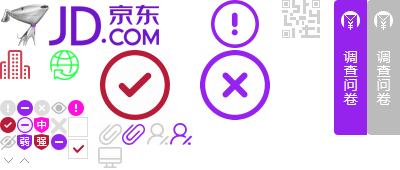
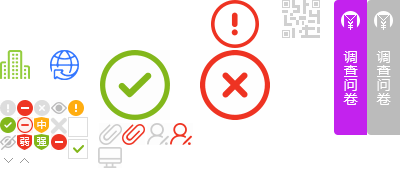
改用Mybatis框架

diff --git a/Herewegou2.5/WebRoot/jsp/user/css/register.css b/Herewegou2.5/WebRoot/jsp/user/css/register.css
@@ -67,7 +67,7 @@ form label.inputName {
 }
 
 form input {
-	width: 120px;
+	width: 200px;
 	padding: 15px 40px;
 	padding-right: 0px;
 	font-size: 14px;
@@ -93,7 +93,7 @@ label.inputFont {
 #usernameLabel,
 #passwordLabel,
 #passwordSureLabel {
-	width: 190px;
+	width: 200px;
 }
 
 form div.notTishi {
@@ -237,7 +237,15 @@ div#changeToPhone a {
 }
 
 #submitImedietaly {
-	background-color: #EE2222;
+	background: #7a45e5;
+    background: -moz-linear-gradient(left,#7a45e5 20%,#b23cef 80%);
+    background: -webkit-gradient(linear,left top,right top,color-stop(20%,#7a45e5),color-stop(80%,#b23cef));
+    background: -webkit-linear-gradient(left,#7a45e5 20%,#b23cef 80%);
+    background: -o-linear-gradient(left,#7a45e5 20%,#b23cef 80%);
+    background: -ms-linear-gradient(left,#7a45e5 20%,#b23cef 80%);
+    background: linear-gradient(to right,#7a45e5 20%,#b23cef 80%);
+    filter: progid:DXImageTransform.Microsoft.gradient(startColorstr='#7a45e5', endColorstr='#b23cef', GradientType=1);
+	
 	text-align: center;
 	line-height: 50px;
 	color: #fff;

diff --git a/Herewegou2.5/WebRoot/jsp/user/css/top.css b/Herewegou2.5/WebRoot/jsp/user/css/top.css
@@ -795,8 +795,6 @@ a.selected {
 #categorys .dd {
 	display: none;
 	height: 466px;
-	background: #b23cef;
-	    background-color: #C81623;
     background: #7a45e5;
     background: -moz-linear-gradient(left,#7a45e5 20%,#b23cef 80%);
     background: -webkit-gradient(linear,left top,right top,color-stop(20%,#7a45e5),color-stop(80%,#b23cef));
@@ -991,7 +989,8 @@ a.selected {
 	border: 1px solid #b23cef;
 	position: relative;
 	height: 82px;
-	width: 208px
+	width: 208px;
+	overflow: hidden;
 }
 
 #categorys .subitems dl {

diff --git a/Herewegou2.5/WebRoot/css/style.css b/Herewegou2.5/WebRoot/css/style.css
@@ -14,8 +14,13 @@ li {
 	list-style: none;
 }
 
-label, select {
+label {
 	padding-top: 5px;
+	font-family: Microsoft JhengHei;
+	font-size:16px;
+}
+
+select {
 	font-family: Microsoft JhengHei;
 	font-size:16px;
 }

diff --git a/Herewegou2.5/src/com/servlet/UserServlet.java b/Herewegou2.5/src/com/servlet/UserServlet.java
@@ -318,10 +318,10 @@ public class UserServlet extends HttpServlet {
 			String to = user.getMail();
 			String subject = "请激活账户";
 
-			String content = "<!DOCTYPE html><html><head><meta charset='utf-8' /><title>京东(JD.COM)-综合网购首选-正品低价、品质保障、配送及时、轻松购物</title><link rel='shortcut icon' href='jd-title.ico' type='image/x-icon' /><link rel='stylesheet' type='text/css' href='css/top.css' /></head><body><style>	.qmbox a {			color: #0095dd;			text-decoration: none !important;		}	</style>	<div itemscope='itemscope' itemtype='https://schema.org/EmailMessage'>		<div itemprop='potentialAction' itemscope='itemscope'			itemtype='https://schema.org/ViewAction'></div>	</div>	<center>		<table align='center' border='0' cellpadding='0' cellspacing='0'			height='100%' width='100%' id='bodyTable'			style='background-color:#F2F2F2;width:100% !important;padding:0;margin:0;height:100% !important;border-collapse:collapse !important;mso-table-rspace:0pt;mso-table-lspace:0pt;-ms-text-size-adjust:100%;-webkit-text-size-adjust:100%;'>			<tbody>				<tr>					<td align='center' valign='top' id='bodyCell'						style='width:100% !important;padding:50px;margin:0;height:100% !important;mso-table-rspace:0pt;mso-table-lspace:0pt;-ms-text-size-adjust:100%;-webkit-text-size-adjust:100%;'>						<table border='0' cellpadding='0' cellspacing='0'							id='templateContainer'							style='border:1px solid #DDDDDD;border-bottom-color:#CCCCCC;max-width:500px !important;border-collapse:collapse !important;mso-table-rspace:0pt;mso-table-lspace:0pt;-ms-text-size-adjust:100%;-webkit-text-size-adjust:100%;'>							<tbody>								<tr>									<td align='center' valign='top'										style='mso-table-rspace:0pt;mso-table-lspace:0pt;-ms-text-size-adjust:100%;-webkit-text-size-adjust:100%;'>										<table border='0' cellpadding='0' cellspacing='0' width='100%'											id='templateBody'											style='border-bottom:1px solid #CCCCCC;border-top:1px solid #FFFFFF;background-color:#FFFFFF;border-collapse:collapse !important;mso-table-rspace:0pt;mso-table-lspace:0pt;-ms-text-size-adjust:100%;-webkit-text-size-adjust:100%;'>											<tbody>												<tr>													<td valign='top' class='bodyContent' mc:edit='body_content'														style='text-align:center;padding-left:20px;padding-bottom:30px;padding-right:20px;padding-top:30px;line-height:150%;font-size:15px;font-family:Microsoft YaHei;color:#424F59;mso-table-rspace:0pt;mso-table-lspace:0pt;-ms-text-size-adjust:100%;-webkit-text-size-adjust:100%;'>														<h1															style='text-align:center;margin-left:0;margin-bottom:10px;margin-right:0;margin-top:0;letter-spacing:normal;line-height:100%;font-weight:normal;font-style:normal;font-size:26px;font-family:Micorsoft jHeng Hei;display:block;color:#424F59 !important;'>激活账号</h1>														<br>"
+			String content = "<!DOCTYPE html><html><head><meta charset='utf-8' /><title>HWG(HWG.COM)-综合网购首选-正品低价、品质保障、配送及时、轻松购物</title><link rel='shortcut icon' href='jd-title.ico' type='image/x-icon' /><link rel='stylesheet' type='text/css' href='css/top.css' /></head><body><style>	.qmbox a {			color: #0095dd;			text-decoration: none !important;		}	</style>	<div itemscope='itemscope' itemtype='https://schema.org/EmailMessage'>		<div itemprop='potentialAction' itemscope='itemscope'			itemtype='https://schema.org/ViewAction'></div>	</div>	<center>		<table align='center' border='0' cellpadding='0' cellspacing='0'			height='100%' width='100%' id='bodyTable'			style='background-color:#F2F2F2;width:100% !important;padding:0;margin:0;height:100% !important;border-collapse:collapse !important;mso-table-rspace:0pt;mso-table-lspace:0pt;-ms-text-size-adjust:100%;-webkit-text-size-adjust:100%;'>			<tbody>				<tr>					<td align='center' valign='top' id='bodyCell'						style='width:100% !important;padding:50px;margin:0;height:100% !important;mso-table-rspace:0pt;mso-table-lspace:0pt;-ms-text-size-adjust:100%;-webkit-text-size-adjust:100%;'>						<table border='0' cellpadding='0' cellspacing='0'							id='templateContainer'							style='border:1px solid #DDDDDD;border-bottom-color:#CCCCCC;max-width:500px !important;border-collapse:collapse !important;mso-table-rspace:0pt;mso-table-lspace:0pt;-ms-text-size-adjust:100%;-webkit-text-size-adjust:100%;'>							<tbody>								<tr>									<td align='center' valign='top'										style='mso-table-rspace:0pt;mso-table-lspace:0pt;-ms-text-size-adjust:100%;-webkit-text-size-adjust:100%;'>										<table border='0' cellpadding='0' cellspacing='0' width='100%'											id='templateBody'											style='border-bottom:1px solid #CCCCCC;border-top:1px solid #FFFFFF;background-color:#FFFFFF;border-collapse:collapse !important;mso-table-rspace:0pt;mso-table-lspace:0pt;-ms-text-size-adjust:100%;-webkit-text-size-adjust:100%;'>											<tbody>												<tr>													<td valign='top' class='bodyContent' mc:edit='body_content'														style='text-align:center;padding-left:20px;padding-bottom:30px;padding-right:20px;padding-top:30px;line-height:150%;font-size:15px;font-family:Microsoft YaHei;color:#424F59;mso-table-rspace:0pt;mso-table-lspace:0pt;-ms-text-size-adjust:100%;-webkit-text-size-adjust:100%;'>														<h1															style='text-align:center;margin-left:0;margin-bottom:10px;margin-right:0;margin-top:0;letter-spacing:normal;line-height:100%;font-weight:normal;font-style:normal;font-size:26px;font-family:Micorsoft jHeng Hei;display:block;color:#424F59 !important;'>激活账号</h1>														<br>"
 					+ clientUser.getNickname()
 					+ "，您好 "
-					+ "</a>,<br>只需再花几秒钟就可以验证您的 JD商城 账号了。													</td>												</tr>												<tr width='100%'>													<td align='center' valign='top'														style='mso-table-rspace:0pt;mso-table-lspace:0pt;-ms-text-size-adjust:100%;-webkit-text-size-adjust:100%;'>														<table border='0' cellpadding='0' cellspacing='0'															width='100%'															style='border-collapse:collapse !important;mso-table-rspace:0pt;mso-table-lspace:0pt;-ms-text-size-adjust:100%;-webkit-text-size-adjust:100%;'>															<tbody>																<tr height='47'>																	<td align='center' valign='top'																		style='mso-table-rspace:0pt;mso-table-lspace:0pt;-ms-text-size-adjust:100%;-webkit-text-size-adjust:100%;'>																		<table border='0' cellpadding='0' cellspacing='0'																			width='65%' class='flexibleContainer'																			style='border-collapse:collapse !important;mso-table-rspace:0pt;mso-table-lspace:0pt;-ms-text-size-adjust:100%;-webkit-text-size-adjust:100%;'>																			<tbody>																				<tr>																					<td align='center' valign='top'																						class='flexibleContainerCell bottomShim'																						style='mso-table-rspace:0pt;mso-table-lspace:0pt;-ms-text-size-adjust:100%;-webkit-text-size-adjust:100%;'>																						<table border='0' cellpadding='0' cellspacing='0'																							width='280' class='emailButton'																							style='border-radius:4px;background-color:#b61d1d;width:100% !important;border-collapse:separate;mso-table-rspace:0pt;mso-table-lspace:0pt;-ms-text-size-adjust:100%;-webkit-text-size-adjust:100%;'>																							<tbody>																								<tr>																									<td align='center' valign='middle'																										class='buttonContent'																										style='text-align:center;line-height:100%;font-weight:normal;font-size:20px;font-family:Microsoft YaHei;color:#FFFFFF;mso-table-rspace:0pt;mso-table-lspace:0pt;-ms-text-size-adjust:100%;-webkit-text-size-adjust:100%;'>																										<a href='http://localhost:8080/JD2.4/jsp/user/UserServlet?action=activation&userid="+clientUser.getUserId()+" ' style='text-decoration:none;font-size:20px;font-family:Microsoft YaHei;display:block;color:#FFFFFF;padding:15px !important;-ms-text-size-adjust:100%;-webkit-text-size-adjust:100%;'target='_blank'>激&nbsp;&nbsp;&nbsp;&nbsp;活</a>																									</td>																								</tr>																							</tbody>																						</table>																					</td>																				</tr>																			</tbody>																		</table>																	</td>																</tr>															</tbody>														</table>													</td>												</tr>												<tr width='100%'>													<td align='center' valign='top'														style='mso-table-rspace:0pt;mso-table-lspace:0pt;-ms-text-size-adjust:100%;-webkit-text-size-adjust:100%;'>														<table border='0' cellpadding='0' cellspacing='0'															width='70%'															style='border-collapse:collapse !important;mso-table-rspace:0pt;mso-table-lspace:0pt;-ms-text-size-adjust:100%;-webkit-text-size-adjust:100%;'>															<tbody>																<tr>																	<td valign='top' class='bodyContent'																		mc:edit='body_content'																		style='text-align:center;padding-left:20px;padding-bottom:30px;padding-right:20px;padding-top:30px;font-family:Microsoft YaHei;mso-table-rspace:0pt;mso-table-lspace:0pt;-ms-text-size-adjust:100%;-webkit-text-size-adjust:100%;color:#8A9BA8;line-height:13px;font-size:11px;'>这是一封自动发送的邮件；如果您并未要求但收到这封信件，您不需要进行任何操作。要了解更多信息，请访问<a href='https://support.jd.com'																		target='_blank'>JD 技术支持</a>																	</td>																</tr>															</tbody>														</table>													</td>												</tr>											</tbody>										</table>									</td>								</tr>							</tbody>						</table>					</td>				</tr>			</tbody>		</table>	</center>	<style type='text/css'>		.qmbox style,.qmbox script,.qmbox head,.qmbox link,.qmbox meta {			display: none !important;		}	</style></body></html>";
+					+ "</a>,<br>只需再花几秒钟就可以验证您的 HWG商城 账号了。													</td>												</tr>												<tr width='100%'>													<td align='center' valign='top'														style='mso-table-rspace:0pt;mso-table-lspace:0pt;-ms-text-size-adjust:100%;-webkit-text-size-adjust:100%;'>														<table border='0' cellpadding='0' cellspacing='0'															width='100%'															style='border-collapse:collapse !important;mso-table-rspace:0pt;mso-table-lspace:0pt;-ms-text-size-adjust:100%;-webkit-text-size-adjust:100%;'>															<tbody>																<tr height='47'>																	<td align='center' valign='top'																		style='mso-table-rspace:0pt;mso-table-lspace:0pt;-ms-text-size-adjust:100%;-webkit-text-size-adjust:100%;'>																		<table border='0' cellpadding='0' cellspacing='0'																			width='65%' class='flexibleContainer'																			style='border-collapse:collapse !important;mso-table-rspace:0pt;mso-table-lspace:0pt;-ms-text-size-adjust:100%;-webkit-text-size-adjust:100%;'>																			<tbody>																				<tr>																					<td align='center' valign='top'																						class='flexibleContainerCell bottomShim'																						style='mso-table-rspace:0pt;mso-table-lspace:0pt;-ms-text-size-adjust:100%;-webkit-text-size-adjust:100%;'>																						<table border='0' cellpadding='0' cellspacing='0'																							width='280' class='emailButton'																							style='border-radius:4px;background-color:#b61d1d;width:100% !important;border-collapse:separate;mso-table-rspace:0pt;mso-table-lspace:0pt;-ms-text-size-adjust:100%;-webkit-text-size-adjust:100%;'>																							<tbody>																								<tr>																									<td align='center' valign='middle'																										class='buttonContent'																										style='text-align:center;line-height:100%;font-weight:normal;font-size:20px;font-family:Microsoft YaHei;color:#FFFFFF;mso-table-rspace:0pt;mso-table-lspace:0pt;-ms-text-size-adjust:100%;-webkit-text-size-adjust:100%;'>																										<a href='http://localhost:8080/HereWeGou2.5/jsp/user/UserServlet?action=activation&userid="+clientUser.getUserId()+" ' style='text-decoration:none;font-size:20px;font-family:Microsoft YaHei;display:block;color:#FFFFFF;padding:15px !important;-ms-text-size-adjust:100%;-webkit-text-size-adjust:100%;'target='_blank'>激&nbsp;&nbsp;&nbsp;&nbsp;活</a>																									</td>																								</tr>																							</tbody>																						</table>																					</td>																				</tr>																			</tbody>																		</table>																	</td>																</tr>															</tbody>														</table>													</td>												</tr>												<tr width='100%'>													<td align='center' valign='top'														style='mso-table-rspace:0pt;mso-table-lspace:0pt;-ms-text-size-adjust:100%;-webkit-text-size-adjust:100%;'>														<table border='0' cellpadding='0' cellspacing='0'															width='70%'															style='border-collapse:collapse !important;mso-table-rspace:0pt;mso-table-lspace:0pt;-ms-text-size-adjust:100%;-webkit-text-size-adjust:100%;'>															<tbody>																<tr>																	<td valign='top' class='bodyContent'																		mc:edit='body_content'																		style='text-align:center;padding-left:20px;padding-bottom:30px;padding-right:20px;padding-top:30px;font-family:Microsoft YaHei;mso-table-rspace:0pt;mso-table-lspace:0pt;-ms-text-size-adjust:100%;-webkit-text-size-adjust:100%;color:#8A9BA8;line-height:13px;font-size:11px;'>这是一封自动发送的邮件；如果您并未要求但收到这封信件，您不需要进行任何操作。要了解更多信息，请访问<a href='https://support.jd.com'																		target='_blank'>HWG 技术支持</a>																	</td>																</tr>															</tbody>														</table>													</td>												</tr>											</tbody>										</table>									</td>								</tr>							</tbody>						</table>					</td>				</tr>			</tbody>		</table>	</center>	<style type='text/css'>		.qmbox style,.qmbox script,.qmbox head,.qmbox link,.qmbox meta {			display: none !important;		}	</style></body></html>";
 
 			boolean sendMailFlag = mailService.sendTextMail(from, to, subject,content);
 			if (sendMailFlag) {

diff --git a/Herewegou2.5/src/com/servlet/CategoryServlet.java b/Herewegou2.5/src/com/servlet/CategoryServlet.java
@@ -4,9 +4,7 @@ package com.servlet;
 import java.io.IOException;
 import java.io.PrintWriter;
 import java.util.Iterator;
-import java.util.LinkedHashMap;
 import java.util.List;
-import java.util.Map;
 
 import javax.servlet.ServletException;
 import javax.servlet.http.HttpServlet;
@@ -14,15 +12,12 @@ import javax.servlet.http.HttpServletRequest;
 import javax.servlet.http.HttpServletResponse;
 
 import com.page.PageInfo;
-import com.service.impl.Category2ServiceImpl;
-import com.service.impl.Category3ServiceImpl;
-import com.service.impl.CategoryServiceImpl;
-import com.service.inter.Category2Service;
-import com.service.inter.Category3Service;
-import com.service.inter.CategoryService;
-import com.vo.Category;
-import com.vo.Category2;
-import com.vo.Category3;
+import com.po.Category;
+import com.po.Category2;
+import com.service.implMybatis.Category2ServiceImpl;
+import com.service.implMybatis.CategoryServiceImpl;
+import com.service.interMybatis.Category2Service;
+import com.service.interMybatis.CategoryService;
 
 public class CategoryServlet extends HttpServlet {
 
@@ -63,9 +58,9 @@ public class CategoryServlet extends HttpServlet {
 			this.getCategory2PageByCondition(request, response);
 		} else if (action.equals("toAddCategory3jsp")) {
 			this.toAddCategory3jsp(request, response);
-		} else if (action.equals("addCategory3")) {
+		} /*else if (action.equals("addCategory3")) {
 			this.addCategory3(request, response);
-		} else if (action.equals("getCategory2ByFid")) {
+		}*/ else if (action.equals("getCategory2ByFid")) {
 			this.getCategory2ByFid(request, response);
 		}else if("hasCategory".equals(action)){
 			hasCategory(request,response);
@@ -170,7 +165,7 @@ public class CategoryServlet extends HttpServlet {
 		request.getRequestDispatcher(target).forward(request, response);
 	}
 
-	private void addCategory3(HttpServletRequest request,
+	/*private void addCategory3(HttpServletRequest request,
 			HttpServletResponse response) throws ServletException, IOException {
 		String target = "";
 
@@ -196,7 +191,7 @@ public class CategoryServlet extends HttpServlet {
 		request.setAttribute("msg", "保存商品成功");
 		request.getRequestDispatcher(target).forward(request, response);
 	}
-
+*/
 	private void toAddCategory2jsp(HttpServletRequest request,
 			HttpServletResponse response) throws ServletException, IOException {
 		System.out.println("in toAddCategory2jsp");
@@ -476,7 +471,7 @@ public class CategoryServlet extends HttpServlet {
 
 		String condition = request.getParameter("condition");
 
-		service.deleteCategoryById(cid);
+		int result = service.deleteCategoryById(cid);
 
 		// 转发视图
 		if (!(condition == null || condition.trim().equals("") || condition

diff --git a/Herewegou2.5/src/com/dao/impl/ClientUserDaoImpl.java b/Herewegou2.5/src/com/dao/impl/ClientUserDaoImpl.java
@@ -24,7 +24,7 @@ public class ClientUserDaoImpl implements ClientUserDao {
 	@Override
 	public boolean addClientUser(ClientUser clientUser) {
 		boolean registerSuccess = false;
-		String sql = "INSERT INTO clientUser(userid,userAccount,PASSWORD,isActive,mail,phoneNum,Nickname) VALUES(seq_clientUser.Nextval,?,?,0,?,?,'JD_'||seq_clientUser.Nextval)"; 
+		String sql = "INSERT INTO clientUser(userid,userAccount,PASSWORD,isActive,mail,phoneNum,Nickname) VALUES(seq_clientUser.Nextval,?,?,0,?,?,'HWG_'||seq_clientUser.Nextval)"; 
 		PreparedStatement pstmt = null;
 		//建立通道
 		try {
@@ -428,7 +428,7 @@ public ClientUser getClientUserByUser(String user) {
 				clientUser.setPassword(rs.getString(3));
 				clientUser.setNickname(rs.getString(5));
 				clientUser.setPhoneNumber(rs.getLong(9));
-				clientUser.setMail(rs.getString(11));
+				clientUser.setMail(rs.getString(12));
 			}
 			
 		} catch (SQLException e) {
